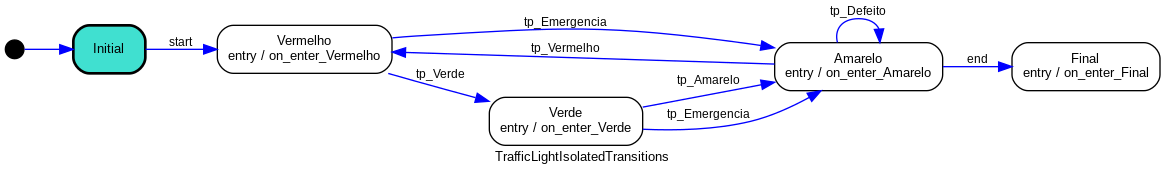
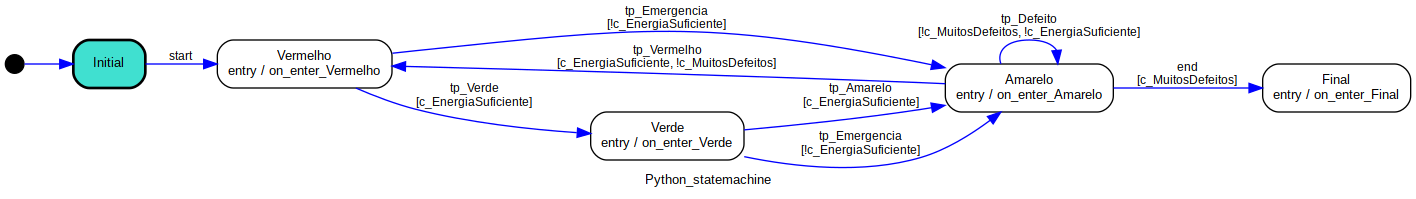
Correções na Pytransitions e na PSM. Adição de guardas na PSM

Changed region(s): [[0.0, 0.0284, 1.0, 0.9375], [0.8652, 0.2273, 0.9888, 0.2557]]

diff --git a/python-statemachine/psm.py b/python-statemachine/psm.py
@@ -1,34 +1,55 @@
-import random, time
-import sys
+import random, time, sys
 from statemachine import State, StateMachine
 
-class TrafficLightIsolatedTransitions(StateMachine):
-    Energia = 100
-    Defeitos = 0
-    "A traffic light machine"
+class Python_statemachine(StateMachine):
+####################### States Declaration #######################   
     Initial = State(initial=True)
     Verde = State()
     Amarelo = State()
     Vermelho= State()
     Final = State()
-    
-    tp_Amarelo = Verde.to(Amarelo)
-    tp_Vermelho = Amarelo.to(Vermelho)
-    tp_Verde = Vermelho.to(Verde)
+
+####################### Transitions Statement  #######################  
+    tp_Amarelo = Verde.to(Amarelo, cond="c_EnergiaSuficiente")
+    tp_Vermelho = Amarelo.to(Vermelho, cond="c_EnergiaSuficiente", unless="c_MuitosDefeitos")
+    tp_Verde = Vermelho.to(Verde, cond="c_EnergiaSuficiente")
     start = Initial.to(Vermelho)
-    end = Amarelo.to(Final)
+    end = Amarelo.to(Final, cond="c_MuitosDefeitos")
 
-    tp_Emergencia = Verde.to(Amarelo) | Vermelho.to(Amarelo)
-    tp_Normal = tp_Verde | tp_Vermelho | tp_Amarelo
+    tp_Emergencia = Verde.to(Amarelo, unless="c_EnergiaSuficiente") | Vermelho.to(Amarelo, unless="c_EnergiaSuficiente")
+    # tp_Normal = tp_Verde | tp_Vermelho | tp_Amarelo # Descomente esse e a condição no while true para usar o modo alternativo
 
-    tp_Defeito = Amarelo.to(Amarelo)
+    tp_Defeito = Amarelo.to(Amarelo, unless=["c_MuitosDefeitos", "c_EnergiaSuficiente"])
 
-    def before_tp_Emergência(self):
+####################### Init and util Functions ####################### 
+    Energia = 100
+    Defeitos = 0
+    def temporizador(self, segundos):
+        tempo_inicial = time.time()
+        tempo_atual = tempo_inicial
+        self.Energia = self.Energia - 10
+        while tempo_atual - tempo_inicial < segundos and self.Energia > 10:
+            tempo_atual = time.time()
+            
+####################### Transition Conditions ####################### 
+    def c_EnergiaSuficiente(self):
+        return self.Energia >= 10
+    
+    def c_MuitosDefeitos(self):
+        return self.Defeitos > 3
+
+####################### Before Transitions ####################### 
+    def before_tp_Emergencia(self):
         print('Emergência!!! Energia Baixa. Mudando para o Amarelo')
     
     def before_tp_Defeito(self):
         print('A energia está muito baixa. O semáforo está com defeito. Energia atual: ' + str(self.Energia))
+        recarga = random.randint(0,100)
+        self.Energia = self.Energia + recarga
+        print("Foram recarregados " + str(recarga) + " de energia agora")
 
+
+####################### On_enter States ####################### 
     def on_enter_Vermelho(self):
         print('Estou no Vermelho. Energia atual: ' + str(self.Energia))
         self.temporizador(0.1)
@@ -37,37 +58,31 @@ class TrafficLightIsolatedTransitions(StateMachine):
         print("Fim de execução")
         sys.exit()
 
-    def on_enter_Amarelo(self):
+    def on_enter_Amarelo(self): 
         if(self.Energia < 10):
             print('Energia atual: ' + str(self.Energia))
             self.Defeitos = self.Defeitos + 1
             print("Defeitos: " + str(self.Defeitos))
-            if(self.Defeitos >= 3):
+            if(self.Defeitos > 3):
                 self.end()
-            self.Energia = self.Energia + random.randint(0,100)
-            self.tp_Defeito()        
-        print('Estou no Amarelo. Energia atual: ' + str(self.Energia))
-        self.temporizador(0.1)
+            self.tp_Defeito()   
+        else:        
+            print('Estou no Amarelo. Energia atual: ' + str(self.Energia))
+            self.temporizador(0.1)
  
     def on_enter_Verde(self):
         print('Estou no Verde. Energia atual: ' + str(self.Energia))
         self.temporizador(0.1)
-
-    def temporizador(self, segundos):
-        tempo_inicial = time.time()
-        tempo_atual = tempo_inicial
-        self.Energia = self.Energia - 10
-        while tempo_atual - tempo_inicial < segundos and self.Energia > 10:
-            tempo_atual = time.time()
         
+####################### Instantiating all objects #######################  
+machine = Python_statemachine()
 
-machine = TrafficLightIsolatedTransitions()
-
-img_path = "python-statemachine/psm3.png"
+####################### Draw State Machine ####################### 
+img_path = "python-statemachine/psm.png"
 machine._graph().write_png(img_path)
 
+####################### Running the State Machine ####################### 
 machine.start()
-
 while True:
     if machine.Energia < 10:
         if machine.current_state.id != 'Amarelo':

diff --git a/Pytransitions/pytransitions.py b/Pytransitions/pytransitions.py
@@ -1,36 +1,22 @@
-# Criar um semáforo com 3 estados
-# 1 - Vermelho, 2 - Amarelo, 3 - Verde
-# Verde -> Amarelo -> Vermelho -> Verde
-# Ele deve demorar 10s no vermelho, 2s no amarelo e 5s no verde.
-# Se receber um sinal de um botão enquanto está no verde, 
-# ele deve mudar de estado para o amarelo imediatamente
-
-import random
-import sys
-import time
+import random, sys, time
 from transitions.extensions import GraphMachine
 
 class Semaforo(GraphMachine):
+####################### States Declaration #######################   
     states = ['Initial','Vermelho','Amarelo','Verde','Final']
 
+####################### Transitions Statement  #######################  
     transitions = [
         {'trigger': 'start', 'source': 'Initial', 'dest': 'Vermelho'},
         {'trigger': 'tp_Verde', 'source': 'Vermelho', 'dest': 'Verde', 'conditions': 'c_EnergiaSuficiente'},
         {'trigger': 'tp_Vermelho', 'source': 'Amarelo', 'dest': 'Vermelho', 'conditions': 'c_EnergiaSuficiente', 'unless': 'c_MuitosDefeitos'},
-        {'trigger': 'tp_Defeito', 'source': 'Amarelo', 'dest': 'Amarelo', 'before': 'b_Erro', 'unless': ['c_EnergiaSuficiente', 'c_MuitosDefeitos']},
+        {'trigger': 'tp_Defeito', 'source': 'Amarelo', 'dest': 'Amarelo', 'before': 'b_tp_Defeito', 'unless': ['c_EnergiaSuficiente', 'c_MuitosDefeitos']},
         {'trigger': 'tp_Amarelo', 'source': 'Verde', 'dest': 'Amarelo', 'conditions': 'c_EnergiaSuficiente'},
-        {'trigger': 'tp_Emergencia', 'source': ['Verde', 'Vermelho'], 'dest': 'Amarelo', 'before':'b_Aviso', 'unless': 'c_EnergiaSuficiente'},
+        {'trigger': 'tp_Emergencia', 'source': ['Verde', 'Vermelho'], 'dest': 'Amarelo', 'before':'b_tp_Emergencia', 'unless': 'c_EnergiaSuficiente'},
         {'trigger': 'end', 'source': 'Amarelo', 'dest': 'Final', 'conditions': 'c_MuitosDefeitos'}
      ]
     
-####################### Transition Conditions ####################### 
-    def c_EnergiaSuficiente(self):
-        return self.Energia >= 10
-    
-    def c_MuitosDefeitos(self):
-        return self.Defeitos >= 3
-
-####################### Init and assist functions ####################### 
+####################### Init and util Functions ####################### 
     def __init__(self):
         super().__init__(name="Semaforo", states=Semaforo.states, transitions=Semaforo.transitions, initial='Initial', show_conditions=True, show_state_attributes=True)
         self.Energia = 100
@@ -43,13 +29,23 @@ class Semaforo(GraphMachine):
         while tempo_atual - tempo_inicial < segundos and self.Energia > 10:
             tempo_atual = time.time()
 
+####################### Transition Conditions ####################### 
+    def c_EnergiaSuficiente(self):
+        return self.Energia >= 10
+    
+    def c_MuitosDefeitos(self):
+        return self.Defeitos > 3
+
 ####################### Before Transitions ####################### 
-    def b_Aviso(self):
+    def b_tp_Emergencia(self):
         print('Emergência!!! Energia Baixa. Mudando para o Amarelo')
     
-    def b_Erro(self):
+    def b_tp_Defeito(self):
         print('A energia está muito baixa. O semáforo está com defeito. Energia atual: ' + str(self.Energia))
-        
+        recarga = random.randint(0,100)
+        self.Energia = self.Energia + recarga
+        print("Foram recarregados " + str(recarga) + " de energia agora")
+
 ####################### On_enter States ####################### 
     def on_enter_Final(self):
         print("Fim de execução")
@@ -59,22 +55,21 @@ class Semaforo(GraphMachine):
         print('Estou no Vermelho. Energia atual: ' + str(self.Energia))
         self.temporizador(0.1)
 
-    def on_enter_Amarelo(self): #####Falta arrumar a energia aqui do amarelo
+    def on_enter_Amarelo(self):
         if(self.Energia < 10):
             print('Energia atual: ' + str(self.Energia))
             self.Defeitos = self.Defeitos + 1
             print("Defeitos: " + str(self.Defeitos))
-            if(self.Defeitos >= 3):
+            if(self.Defeitos > 3):
                 self.end()
-            self.Energia = self.Energia + random.randint(0,100)
             self.tp_Defeito()        
-        print('Estou no Amarelo. Energia atual: ' + str(self.Energia))
-        self.temporizador(0.1)
+        else:        
+            print('Estou no Amarelo. Energia atual: ' + str(self.Energia))
+            self.temporizador(0.1)
 
     def on_enter_Verde(self):
         print('Estou no Verde. Energia atual: ' + str(self.Energia))
         self.temporizador(0.1)
-
 
 ####################### Instantiating all objects #######################  
 machine = Semaforo()
